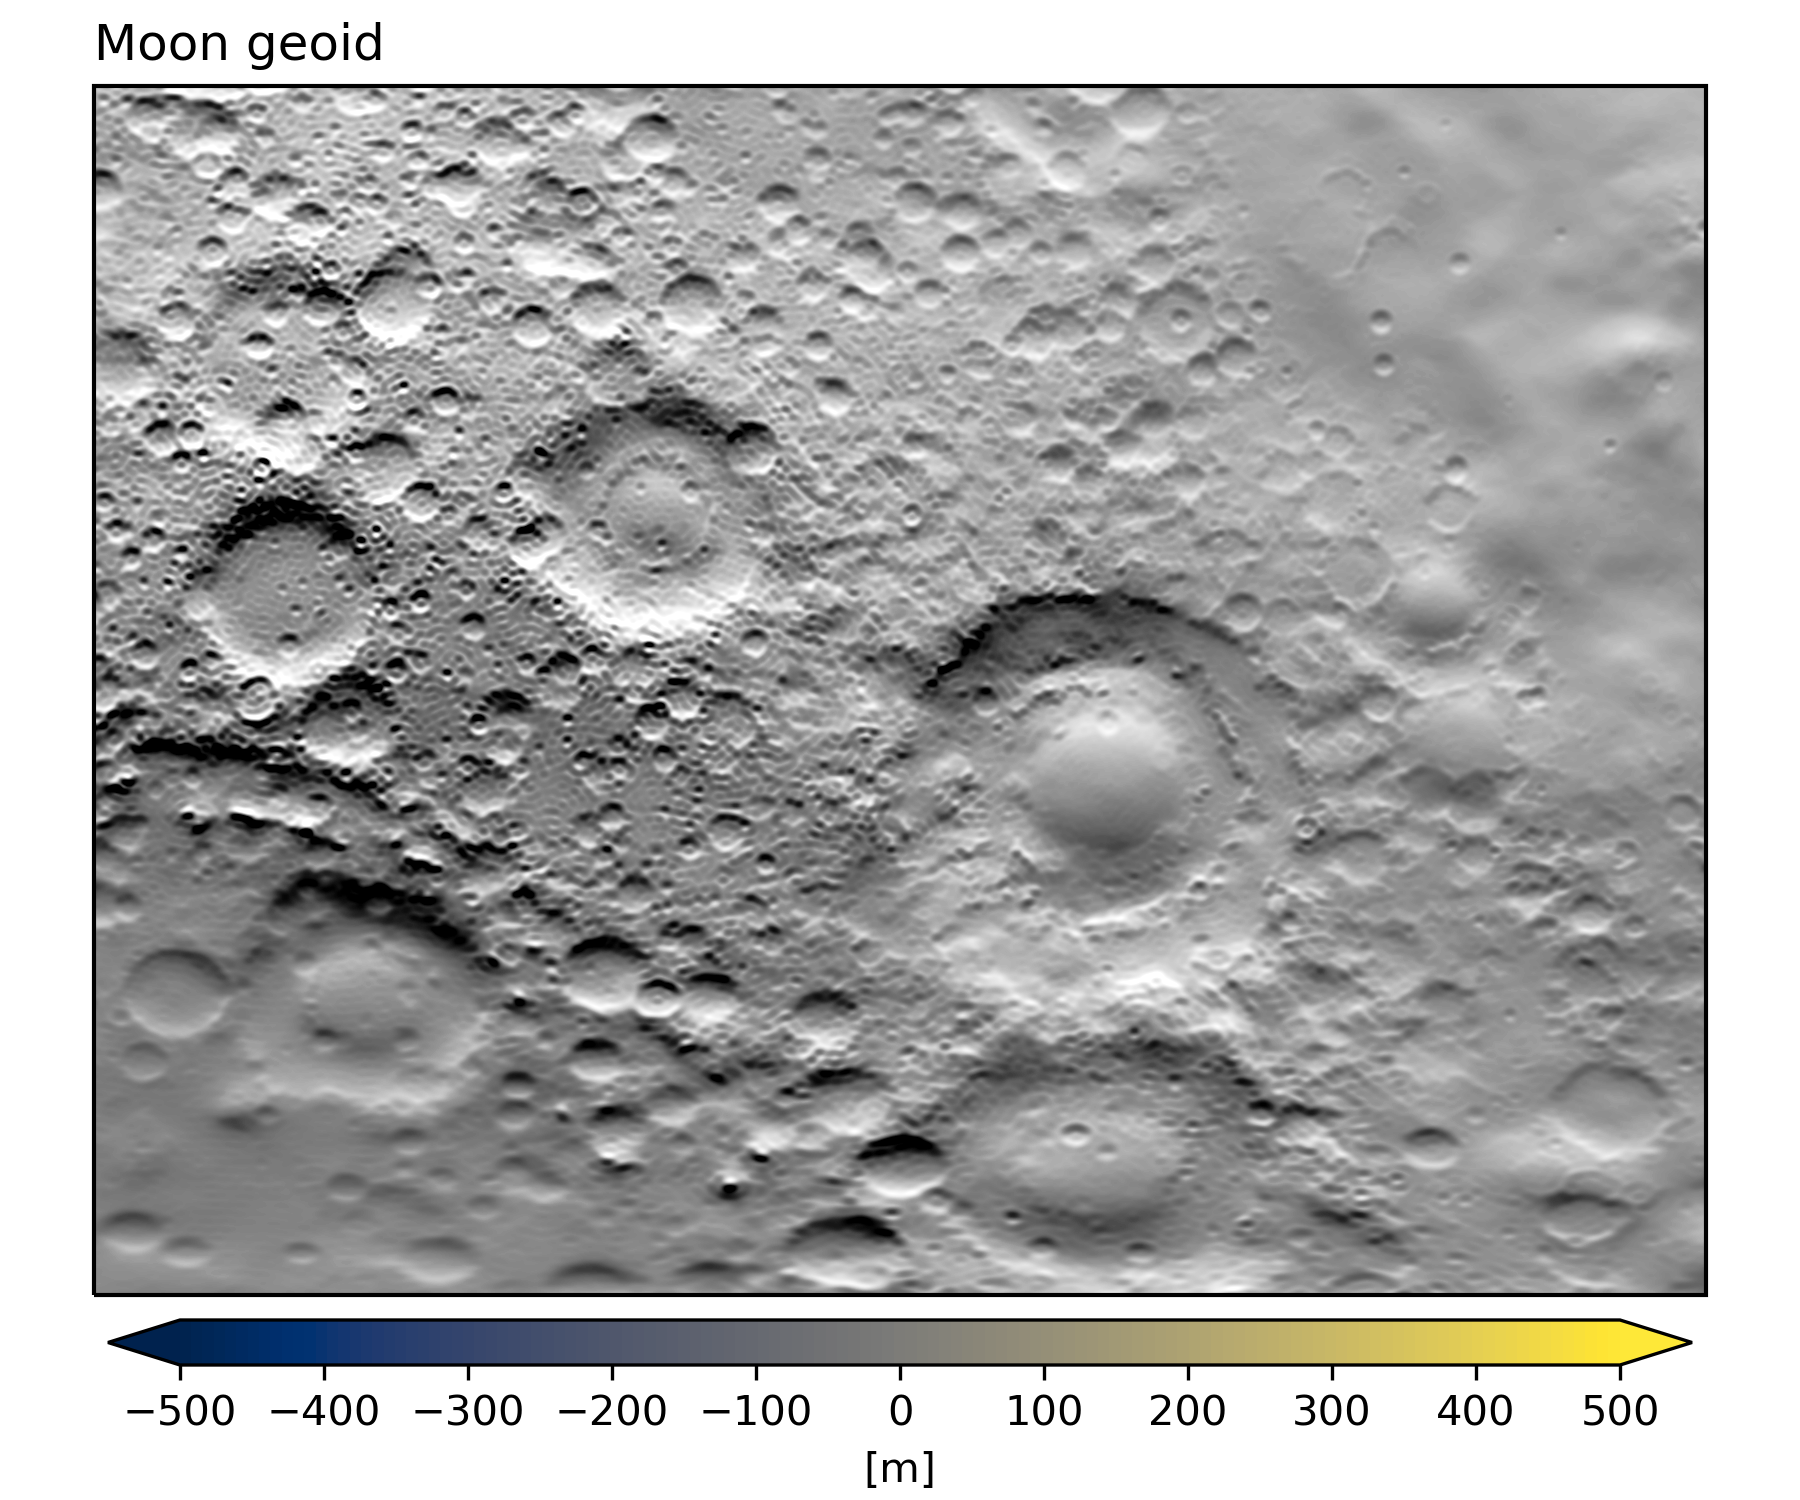
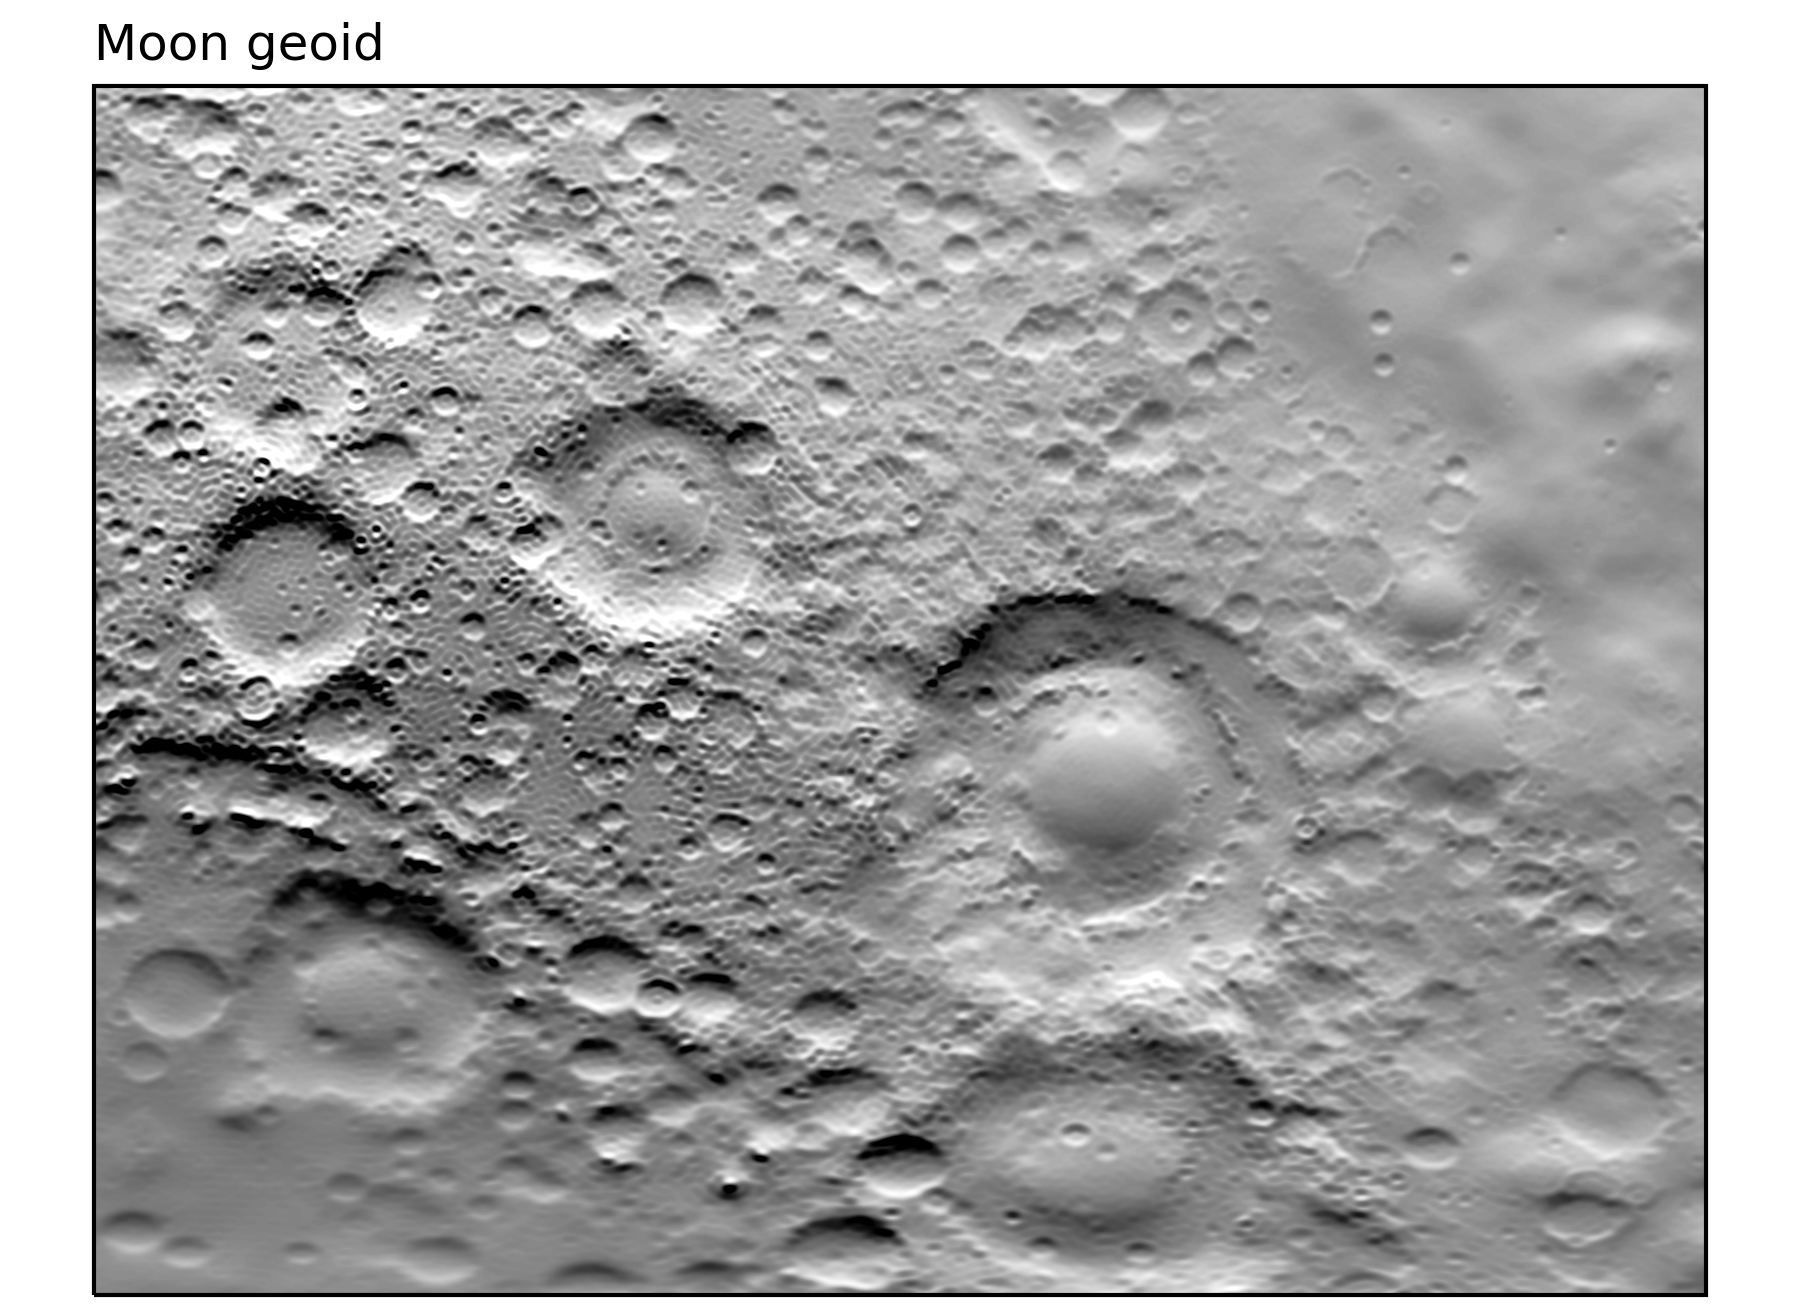
z and gradient split in two scripts

diff --git a/moonmars_topo_z.py b/moonmars_topo_z.py
@@ -1,0 +1,73 @@
+import numpy as np
+import matplotlib.pyplot as plt
+import cartopy.crs as ccrs
+from netCDF4 import Dataset
+from cmaputil import cm
+
+path1 = "/local/kloewer/marsmoon/Moon/LOLA2600p_geoid.grd"
+path2 = "/local/kloewer/marsmoon/Mars/MarsTopo_geoid_jgmro_110c.grd"
+
+# read data Moon
+nc = Dataset(path1)
+
+x0,x1 = (2000,-1)
+y0,y1 = (200,2700)
+
+lon_moon = nc["x"][x0:x1]
+lat_moon = nc["y"][y0:y1]
+z_moon = nc["z"][y0:y1,x0:x1]
+
+# read data Mars
+nc = Dataset(path2)
+
+lon_mars = nc["x"][x0:x1]
+lat_mars = nc["y"][y0:y1]
+z_mars = nc["z"][y0:y1,x0:x1]
+
+## plot data
+
+# levels for contourf
+# use percentiles to ignore outliers
+lev_moon = np.linspace(np.percentile(z_moon,0.5),np.percentile(z_moon,99.9),64)
+lev_mars = np.linspace(np.percentile(z_mars,0.5),np.percentile(z_mars,99.99),64)
+
+# figure
+fig = plt.figure(figsize=(8,4))
+
+# map projection
+moonproj = ccrs.NearsidePerspective(central_latitude=0.,central_longitude=250,satellite_height=40000000.0)
+marsproj = ccrs.NearsidePerspective(central_latitude=0.,central_longitude=270,satellite_height=40000000.0)
+contourfproj = ccrs.RotatedPole(pole_longitude=180.)
+
+ax_moon = fig.add_subplot(1,2,1,projection=moonproj)
+ax_mars = fig.add_subplot(1,2,2,projection=marsproj)
+
+plt.tight_layout(rect=[-.2,.12,1.2,0.95])
+fig.subplots_adjust(wspace=-0.4,hspace=0.)
+cax_moon = fig.add_axes([0.06,0.11,0.38,0.03])
+cax_mars = fig.add_axes([0.56,0.11,0.38,0.03])
+
+ax_moon.set_global()
+ax_mars.set_global()
+
+# plotting the height
+qmo = ax_moon.contourf(lon_moon,lat_moon,z_moon,lev_moon,transform=contourfproj,cmap=cm.cividis,extend="both")
+qma = ax_mars.contourf(lon_mars,lat_mars,z_mars,lev_mars,transform=contourfproj,cmap=cm.cividis,extend="both")
+
+cb_moon = plt.colorbar(qmo,cax=cax_moon,orientation="horizontal")
+cb_moon.set_ticks(np.arange(-4,8,1))
+cb_moon.ax.tick_params(labelsize=8,color="w",labelcolor="w")
+cb_moon.outline.set_edgecolor("w")
+cb_moon.set_label("Topography [km]",color="w",size=8)
+
+cb_mars = plt.colorbar(qma,cax=cax_mars,orientation="horizontal")
+cb_mars.set_ticks(np.arange(-10,30,2))
+cb_mars.ax.tick_params(labelsize=8,color="w",labelcolor="w")
+cb_mars.outline.set_edgecolor("w")
+cb_mars.set_label("Topography [km]",color="w",size=8)
+
+ax_moon.set_title("Moon",loc="left",color="w")
+ax_mars.set_title("Mars",loc="left",color="w")
+
+plt.savefig("figs/moon_mars_z.png",dpi=300,facecolor="k")
+plt.close(fig)

diff --git a/moonmars_topo_grad.py b/moonmars_topo_grad.py
@@ -1,0 +1,65 @@
+import numpy as np
+import matplotlib.pyplot as plt
+import cartopy.crs as ccrs
+from netCDF4 import Dataset
+from cmaputil import cm
+
+path1 = "/local/kloewer/marsmoon/Moon/LOLA2600p_geoid.grd"
+path2 = "/local/kloewer/marsmoon/Mars/MarsTopo_geoid_jgmro_110c.grd"
+
+# read data Moon
+nc = Dataset(path1)
+
+x0,x1 = (2000,-1)
+y0,y1 = (200,2700)
+
+lon_moon = nc["x"][x0:x1]
+lat_moon = nc["y"][y0:y1]
+z_moon = nc["z"][y0:y1,x0:x1]
+
+# read data Mars
+nc = Dataset(path2)
+
+lon_mars = nc["x"][x0:x1]
+lat_mars = nc["y"][y0:y1]
+z_mars = nc["z"][y0:y1,x0:x1]
+
+## compute gradient of z in y direction
+# ignore dy as it is constant
+
+dz_moon = np.gradient(z_moon,axis=0)
+dz_mars = np.gradient(z_mars,axis=0)
+
+## plot data
+
+# levels for contourf
+# use percentiles to ignore outliers
+lights_moon = np.linspace(np.percentile(dz_moon,0.5),np.percentile(dz_moon,99.5),32)
+lights_mars = np.linspace(np.percentile(dz_mars,0.5),np.percentile(dz_mars,99.5),64)
+
+# figure
+fig = plt.figure(figsize=(8,4))
+
+# map projection
+moonproj = ccrs.NearsidePerspective(central_latitude=0.,central_longitude=250,satellite_height=40000000.0)
+marsproj = ccrs.NearsidePerspective(central_latitude=0.,central_longitude=270,satellite_height=40000000.0)
+contourfproj = ccrs.RotatedPole(pole_longitude=180.)
+
+ax_moon = fig.add_subplot(1,2,1,projection=moonproj)
+ax_mars = fig.add_subplot(1,2,2,projection=marsproj)
+
+plt.tight_layout(rect=[-.2,.12,1.2,0.95])
+fig.subplots_adjust(wspace=-0.4,hspace=0.)
+
+ax_moon.set_global()
+ax_mars.set_global()
+
+# plotting the gradient
+ax_moon.contourf(lon_moon,lat_moon,dz_moon,lights_moon,transform=contourfproj,cmap="Greys",extend="both")
+ax_mars.contourf(lon_mars,lat_mars,dz_mars,lights_mars,transform=contourfproj,cmap="Greys",extend="both")
+
+ax_moon.set_title("Moon",loc="left",color="w")
+ax_mars.set_title("Mars",loc="left",color="w")
+
+plt.savefig("figs/moon_mars_grad.png",dpi=300,facecolor="k")
+plt.close(fig)
